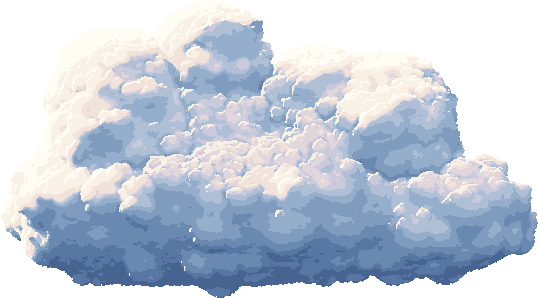
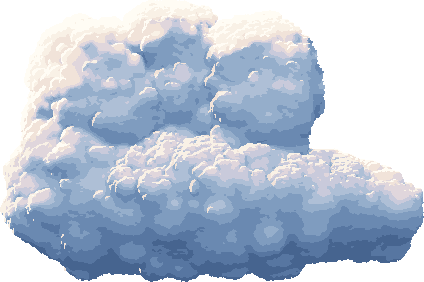
The fall's sky, round 2b (fall loop, worker 1): the deck becomes a ceiling on the back plane, the paper falls through its gap, wisps as tapered strokes
The critique's W1-3/4/5/6/8/9/10 on the cloud library (rev 5's camera):
- The deck moves from the mid plane to the BACK plane: it rises past the paper faster, so at the gust its crowns lie
  under the paper while at the break-out and the postcard its crowns sit above the top bar and only its bellies show.
  Four chunks rebuilt with flat-ish crowns (0.86-1.0 of their height) and a thick layer's light: the sun higher and
  further behind, the lower half in the body's own shadow (`under`), the cells' cast shadows short and soft (no
  vertical combs), less bounce (no polka dots). Bases undulate; torn gaps between the chunks: G1 round the sun (the
  sun in it from the break-out to the postcard, worker 2's shafts through it) and G2, the paper's: from 7.0 to 9.6 s
  the paper drops into the valley between two crowns with sky behind it, never a lit crown (W1-9), and breaks out
  through the same gap at 10.6 s.
- Wisps (W1-5): a new stroke builder (cloudlib.wisps): few strokes streaming west, a dense ragged head lit on top, a
  long tail thinning into combed fibres that fray and break, the tail hooked by the shear; no rim, no ruled
  underside. ci-a/b/c (high cirrus), st-a/b/c (low stratus) rebuilt. Binary alpha (the engine draws partial alpha
  dark: measured, so the strokes stay crisp).
- The vast frame (W1-6/W1-8): the paper's column is open sky (the deck lies low over the world toward the
[…]

diff --git a/src/tesu/art/library/opening/cloud-library.ts b/src/tesu/art/library/opening/cloud-library.ts
@@ -30,14 +30,16 @@ export const CLOUDS: Readonly<Record<string, CloudEntry>> = {
   "cu-far-a": { what: "far heap", w: 884, h: 222, ax: 384.0, ay: 196.0, sets: [{ level: 1.0, base: "/tesu/clouds/cu-far-a/l100/" }, { level: 0.5, base: "/tesu/clouds/cu-far-a/l50/" }, { level: 0.25, base: "/tesu/clouds/cu-far-a/l25/" }] },
   "cu-far-b": { what: "far heap", w: 605, h: 174, ax: 272.0, ay: 164.0, sets: [{ level: 1.0, base: "/tesu/clouds/cu-far-b/l100/" }, { level: 0.5, base: "/tesu/clouds/cu-far-b/l50/" }, { level: 0.25, base: "/tesu/clouds/cu-far-b/l25/" }] },
   "cu-far-c": { what: "far heap", w: 426, h: 127, ax: 185.0, ay: 117.0, sets: [{ level: 1.0, base: "/tesu/clouds/cu-far-c/l100/" }, { level: 0.5, base: "/tesu/clouds/cu-far-c/l50/" }, { level: 0.25, base: "/tesu/clouds/cu-far-c/l25/" }] },
-  "deck-w": { what: "deck chunk", w: 1410, h: 707, ax: 570.0, ay: 561.0, sets: [{ level: 1.0, base: "/tesu/clouds/deck-w/l100/" }, { level: 0.5, base: "/tesu/clouds/deck-w/l50/" }, { level: 0.25, base: "/tesu/clouds/deck-w/l25/" }] },
-  "deck-m": { what: "deck chunk (the gust's hero crown)", w: 1075, h: 596, ax: 484.0, ay: 466.0, sets: [{ level: 1.0, base: "/tesu/clouds/deck-m/l100/" }, { level: 0.5, base: "/tesu/clouds/deck-m/l50/" }, { level: 0.25, base: "/tesu/clouds/deck-m/l25/" }] },
-  "deck-e1": { what: "deck chunk", w: 1330, h: 778, ax: 642.0, ay: 607.0, sets: [{ level: 1.0, base: "/tesu/clouds/deck-e1/l100/" }, { level: 0.5, base: "/tesu/clouds/deck-e1/l50/" }, { level: 0.25, base: "/tesu/clouds/deck-e1/l25/" }] },
-  "deck-e2": { what: "deck chunk", w: 1494, h: 727, ax: 675.0, ay: 554.0, sets: [{ level: 1.0, base: "/tesu/clouds/deck-e2/l100/" }, { level: 0.5, base: "/tesu/clouds/deck-e2/l50/" }, { level: 0.25, base: "/tesu/clouds/deck-e2/l25/" }] },
+  "deck-w": { what: "deck chunk (west, by the sun's gap)", w: 1467, h: 585, ax: 647.0, ay: 454.0, sets: [{ level: 1.0, base: "/tesu/clouds/deck-w/l100/" }, { level: 0.5, base: "/tesu/clouds/deck-w/l50/" }, { level: 0.25, base: "/tesu/clouds/deck-w/l25/" }] },
+  "deck-m": { what: "deck chunk (hanging low between the sun's gap and the paper's)", w: 849, h: 564, ax: 352.0, ay: 454.0, sets: [{ level: 1.0, base: "/tesu/clouds/deck-m/l100/" }, { level: 0.5, base: "/tesu/clouds/deck-m/l50/" }, { level: 0.25, base: "/tesu/clouds/deck-m/l25/" }] },
+  "deck-e1": { what: "deck chunk (the gust's hero crown east of the paper)", w: 1352, h: 571, ax: 595.0, ay: 450.0, sets: [{ level: 1.0, base: "/tesu/clouds/deck-e1/l100/" }, { level: 0.5, base: "/tesu/clouds/deck-e1/l50/" }, { level: 0.25, base: "/tesu/clouds/deck-e1/l25/" }] },
+  "deck-e2": { what: "deck chunk (east)", w: 1536, h: 549, ax: 722.0, ay: 428.0, sets: [{ level: 1.0, base: "/tesu/clouds/deck-e2/l100/" }, { level: 0.5, base: "/tesu/clouds/deck-e2/l50/" }, { level: 0.25, base: "/tesu/clouds/deck-e2/l25/" }] },
   "deck-mid-a": { what: "deck band, middle distance", w: 1900, h: 487, ax: 963.0, ay: 358.0, sets: [{ level: 1.0, base: "/tesu/clouds/deck-mid-a/l100/" }, { level: 0.5, base: "/tesu/clouds/deck-mid-a/l50/" }, { level: 0.25, base: "/tesu/clouds/deck-mid-a/l25/" }] },
   "deck-far-a": { what: "deck band, far", w: 2240, h: 353, ax: 1114.0, ay: 230.0, sets: [{ level: 1.0, base: "/tesu/clouds/deck-far-a/l100/" }, { level: 0.5, base: "/tesu/clouds/deck-far-a/l50/" }, { level: 0.25, base: "/tesu/clouds/deck-far-a/l25/" }] },
-  "st-a": { what: "low stratus", w: 842, h: 48, ax: 397.0, ay: 59.0, sets: [{ level: 1.0, base: "/tesu/clouds/st-a/l100/" }] },
-  "st-b": { what: "low stratus", w: 326, h: 24, ax: 30.0, ay: 44.0, sets: [{ level: 1.0, base: "/tesu/clouds/st-b/l100/" }] },
-  "ci-a": { what: "high cirrus", w: 691, h: 74, ax: 296.0, ay: 74.0, sets: [{ level: 1.0, base: "/tesu/clouds/ci-a/l100/" }] },
-  "ci-b": { what: "high cirrus", w: 484, h: 43, ax: 211.0, ay: 55.0, sets: [{ level: 1.0, base: "/tesu/clouds/ci-b/l100/" }] },
+  "st-a": { what: "low stratus", w: 514, h: 49, ax: 74.0, ay: 49.0, sets: [{ level: 1.0, base: "/tesu/clouds/st-a/l100/" }] },
+  "st-b": { what: "low stratus", w: 460, h: 33, ax: 184.0, ay: 37.0, sets: [{ level: 1.0, base: "/tesu/clouds/st-b/l100/" }] },
+  "st-c": { what: "low stratus, far", w: 837, h: 62, ax: 334.0, ay: 62.0, sets: [{ level: 1.0, base: "/tesu/clouds/st-c/l100/" }] },
+  "ci-a": { what: "high cirrus", w: 572, h: 55, ax: 173.0, ay: 55.0, sets: [{ level: 1.0, base: "/tesu/clouds/ci-a/l100/" }] },
+  "ci-b": { what: "high cirrus", w: 281, h: 51, ax: 14.0, ay: 63.0, sets: [{ level: 1.0, base: "/tesu/clouds/ci-b/l100/" }] },
+  "ci-c": { what: "high cirrus", w: 432, h: 45, ax: 104.0, ay: 69.0, sets: [{ level: 1.0, base: "/tesu/clouds/ci-c/l100/" }] },
 };

diff --git a/src/tesu/world/sections/opening-sky.ts b/src/tesu/world/sections/opening-sky.ts
@@ -47,6 +47,12 @@ export interface FallCloud {
   fy: number;
   /** Which cloud of the library (cloud-library.ts). */
   cloud: keyof typeof CLOUDS & string;
+  /**
+   * Composed low, in the play sky by design (the deck overhead at the break-out; the far heaps and stratus toward the
+   * horizon): hidden outside the fall (game.ts syncFall), so only the close band the fall hands off to (the catch, the
+   * walk) must never see it.
+   */
+  low?: boolean;
 }
 
 /** A library cloud's bounds round its anchor (level-1 px of its plane): [x0, y0, x1, y1]. */
@@ -62,23 +68,25 @@ export function cloudBounds(id: string): [number, number, number, number] {
  */
 export const FALL_CLOUDS: readonly FallCloud[] = [
   // --- the VAST FRAME (2.94 s, zoom 0.17): the sky over the whole world. The sun upper left over open sky and high
-  // cirrus combed west; a great tower rising on the right past the palace, its sun side lit; the deck's heaps lying
-  // across the middle below the paper, with a gap where the world shows through, its crowns low under the paper's
-  // column (F's ASK 1), the world below them in the clear.
-  // --- the drop out of the black and the pull-out (0.64-1.6 s): high wisps rushing by the frame as the sky hits, a
-  // small heap far below that settles into the vast frame's empty middle as its depth
-  { id: "fall-wisp-hi-a", plane: "far", T: 1.0, fx: 0.3, fy: 0.55, cloud: "ci-a" },
-  { id: "fall-wisp-hi-b", plane: "far", T: 1.0, fx: 0.76, fy: 0.74, cloud: "ci-b" },
-  { id: "fall-puff-mid", plane: "mid", T: 1.0, fx: 0.8, fy: 0.84, cloud: "cu-puff-a" },
-  { id: "fall-cirrus-a", plane: "far", T: 2.94, fx: 0.55, fy: 0.25, cloud: "ci-a" },
-  { id: "fall-cirrus-b", plane: "far", T: 2.94, fx: 0.24, fy: 0.34, cloud: "ci-b" },
+  // cirrus combed west; a great tower rising on the right past the palace, its sun side lit; the deck (on the back
+  // plane, below) lying low over the world toward the horizon, so the paper's column is open sky (F's ASK 1) and the
+  // tower's foot is lost behind the deck.
+  // --- the drop out of the black and the pull-out (0.64-1.6 s): high wisps rushing by the frame as the sky hits
+  { id: "fall-wisp-hi-a", plane: "far", T: 1.0, fx: 0.3, fy: 0.5, cloud: "ci-a" },
+  { id: "fall-wisp-hi-b", plane: "far", T: 1.0, fx: 0.78, fy: 0.72, cloud: "ci-c" },
+  { id: "fall-cirrus-b", plane: "far", T: 2.94, fx: 0.92, fy: 0.2, cloud: "ci-b" },
   { id: "fall-tower", plane: "mid", T: 2.94, fx: 0.8, fy: 0.6, cloud: "cu-tower-a" },
-  // --- the deck (the gust 8.2 s -> the break-out 10.6 s -> the postcard 12.6 s): chunks side by side on the mid
-  // plane, composed for the break-out (their bellies overhead, the crowns above the bar; a gap on the sun's side);
-  // at the gust their crowns cross the lower frame under the paper (deck-m's crown its hero)
-  { id: "fall-deck-w", plane: "mid", T: 10.617, fx: -0.278, fy: 0.37, cloud: "deck-w" },
-  { id: "fall-deck-e", plane: "mid", T: 10.617, fx: 0.935, fy: 0.36, cloud: "deck-e1" },
-  { id: "fall-deck-m", plane: "mid", T: 10.617, fx: 0.422, fy: 0.39, cloud: "deck-m" },
+  // --- the deck (round 2b): a CEILING on the BACK plane (it rises past the paper faster than the mid plane, so at
+  // the gust its crowns lie under the paper while at the break-out and the postcard its crowns are above the top bar
+  // and only its underside shows). Composed for the break-out (10.617 s, art 0.72): four chunks overlapping, their
+  // bases undulating (the rolls' feet y ~400-480), torn gaps between them: G1 round the sun (x ~170-340: the sun in it
+  // or at its west edge from the break-out to the postcard) and G2 the paper falls through (x ~950-1040: at the gust
+  // 7.0-9.6 s the paper drops into the valley between two crowns, sky behind it, never a lit crown: W1-9). Later = in
+  // front: the lowest last.
+  { id: "fall-deck-e2", plane: "back", T: 10.617, fx: 2420 / 1920, fy: 318 / 1080, cloud: "deck-e2", low: true },
+  { id: "fall-deck-e", plane: "back", T: 10.617, fx: 1468 / 1920, fy: 343 / 1080, cloud: "deck-e1", low: true },
+  { id: "fall-deck-w", plane: "back", T: 10.617, fx: -420 / 1920, fy: 361 / 1080, cloud: "deck-w", low: true },
+  { id: "fall-deck-m", plane: "back", T: 10.617, fx: 592 / 1920, fy: 400 / 1080, cloud: "deck-m", low: true },
 ];
 
 export function openingSky(b: WorldBuilder): void {

diff --git a/tools/clouds/cloudlib.py b/tools/clouds/cloudlib.py
@@ -211,7 +211,7 @@ def grow(rng, prims, *, spacing, radius, keep, inset=0.45, blend=0.32, vs=4.0, j
 # forms (level-1 px; the anchor (0, 0) is the middle of the base)
 
 
-def heap(rng, w, h, *, turrets=None, lead=-0.22, depth=0.75, belly=0.36, cells=1.0, sprouts=1.0, lean=0.0, cell_px=None, sprout_px=None, crowns=1.0, look_k=0.16, front_cells=0.35, cell_space=0.8, cauli=False, florets=1.0, floret_px=None, tw=None, gaps=(), rolls=0.0, roll_px=None, taper=0.0, cut=True, roll_drop=0.0):
+def heap(rng, w, h, *, turrets=None, lead=-0.22, depth=0.75, belly=0.36, cells=1.0, sprouts=1.0, lean=0.0, cell_px=None, sprout_px=None, crowns=1.0, look_k=0.16, front_cells=0.35, cell_space=0.8, cauli=False, florets=1.0, floret_px=None, tw=None, gaps=(), rolls=0.0, roll_px=None, taper=0.0, cut=True, roll_drop=0.0, carve=()):
     """A cumulus heap (tall and narrow: a tower): an envelope of billows (a flat-ish belly of lying billows, turrets
     of billows rising from it, the tallest a little sunward, crowns of smaller billows on each), cells grown over its
     surface (denser up and sunward), sprouts grown along the lit top (three scales)."""
@@ -320,7 +320,8 @@ def heap(rng, w, h, *, turrets=None, lead=-0.22, depth=0.75, belly=0.36, cells=1
         return np.clip(edge * up * 1.6, 0, 1) * florets
 
     Fl = grow(rng, EC + D, spacing=fl_px * 1.0, radius=fl_px, keep=keep_florets, inset=0.45, blend=0.2, vs=max(1.5, fl_px / 2.5)) if florets > 0 else []
-    return {"prims": EC + D + Fl, "base": 0.0, "w": w, "h": h, "hmax": hmax, "cut": cut}
+    # (carve: torn gaps cut right through the finished form, x share and width share, their walls wandering)
+    return {"prims": EC + D + Fl, "base": 0.0, "w": w, "h": h, "hmax": hmax, "cut": cut, "carve": [(gx * w, gw * w) for gx, gw in carve]}
 
 
 # ---------------------------------------------------------------------------------------------------------------
@@ -574,6 +575,77 @@ def streaks(rng, w, h, *, pieces=3, tilt=-0.035, seed=1, ramp=None, steps=(1, 2,
     return rgba
 
 
+def wisps(rng, w, h, *, pieces=2, seed=1, ramp=None, tilt=-0.03, kind="cirrus", alphas=(0.3, 0.55, 0.82, 1.0), thick=(0.5, 1.0), hook=0.35, breaks=0.42):
+    """Wisps (round 2, the critique's W1-5: "fewer, tapered, broken, west-sheared strokes of varied thickness, lit on top
+    and fading at the ends; no rim"). 2D, painted. Each stroke streams WEST on the east wind: a dense head at its east
+    end (lit on top), a long body thinning west into combed fibres that fray and break, its tail hooked by the shear;
+    translucent in flat steps (alpha `alphas`, thin to dense: no blur, no dither), so a thin wisp is the sky's own blue
+    lifted and only the dense head reads white. kind "cirrus": fine fibres, high; "stratus": a thicker low band with
+    small lumpy heads along its lit top and a cool, lost underside. Returns RGBA (partial alpha in steps)."""
+    nz = Noise(seed * 7 + 3)
+    W, H = int(w), int(h)
+    yy, xx = np.mgrid[0:H, 0:W].astype(np.float32)
+    dens = np.zeros((H, W), np.float32)
+    up = np.zeros((H, W), np.float32)  # where in its stroke's thickness a px is (-1 top .. 1 bottom), of the densest stroke
+    fib = kind == "cirrus"
+    for i in range(pieces):
+        L = W * (0.45 + 0.4 * rng.random()) if i == 0 else W * (0.22 + 0.35 * rng.random())
+        x1 = W - 2 - rng.random() * W * (0.05 if i == 0 else 0.45)
+        x0 = max(1.0, x1 - L)
+        L = x1 - x0
+        y1 = H * (0.3 + 0.4 * rng.random())
+        t0 = H * 0.5 * (thick[0] + (thick[1] - thick[0]) * rng.random()) * (1.0 if i == 0 else 0.7)
+        u = np.clip((xx - x0) / max(L, 1), 0, 1)  # 0 the west tail .. 1 the east head
+        inside = (xx >= x0 - 2) & (xx <= x1 + 2)
+        # the centre line: the tilt, a gentle meander, the tail hooked by the shear (up or down)
+        hk = (hook * (1 if rng.random() < 0.6 else -1)) * H * 0.5
+        yc = y1 + tilt * (xx - x1) + hk * (1 - u) ** 2.2 + (nz.fbm(xx / 160.0 + i * 3.3, np.full_like(xx, 1.7 * i), oct=2) - 0.5) * H * 0.18
+        # the thickness: swells fast behind the head, tapers long toward the tail (and quickly at the head's own end)
+        # (the head's end ragged: tufts of its own, never a clean rounded tip)
+        rag = (nz.fbm(yy / 2.6 + i * 13.0, xx / 30.0 + i, oct=2) - 0.5) * 2.4
+        prof = np.clip(u / 0.7, 0, 1) ** 0.9 * np.clip((1 - u) / 0.12 + rag, 0, 1) ** 0.5
+        prof = prof * (0.75 + 0.5 * nz.fbm(xx / 70.0 + i * 5.1, np.full_like(xx, 3.0 + i), oct=2))
+        t = np.maximum(t0 * prof, 0.4)
+        c = (yy - yc) / t  # -1 top .. 1 bottom
+        lump = nz.fbm(xx / (9.0 if fib else 14.0) + i * 4.4, np.full_like(xx, 8.0 + i), oct=2) - 0.5
+        ce = np.where(c < 0, c / (1 + (0.6 if fib else 0.9) * lump), c * 1.15)
+        core = np.clip(1 - np.abs(ce) ** 1.4, 0, 1)
+        if fib:
+            # fibres combed along the stroke (long in x, a px or two across), only inside its envelope, stronger
+            # toward the tail where the core thins away
+            f = nz.fbm(xx / 140.0 + i * 2.1, (yy - yc) / 1.4 + i * 7.7, oct=2)
+            env = np.clip(1.0 - np.abs(c) / 1.9, 0, 1)
+            d = core * (0.35 + 0.65 * u ** 0.7) + (f - 0.5) * (1.6 - 0.8 * u) * env - (1 - env) * 0.6
+        else:
+            f = nz.fbm(xx / 60.0 + i * 2.1, (yy - yc) / 2.2 + i * 7.7, oct=3)
+            d = core * (0.6 + 0.4 * u) + (f - 0.5) * 0.7
+        # torn breaks along it (the stroke breaks into lengths, more toward the tail)
+        br = nz.fbm(xx / 55.0 + i * 9.9, np.full_like(xx, 5.5 + 2 * i), oct=2)
+        d = d - np.clip((breaks + 0.25 * (1 - u)) - br, 0, 1) * 2.2
+        d = np.where(inside, d, 0)
+        better = d > dens
+        dens = np.where(better, d, dens)
+        up = np.where(better, np.clip(c, -1, 1), up)
+    # density steps (thin -> dense), binary alpha (the engine draws sprites crisp: no partial alpha). The thinnest
+    # fibres are left out; a thin wisp is a pale cool blue (over the deep sky a lighter blue, over the pale sky lost),
+    # the dense head white and warm on top
+    th = (0.3, 0.5, 0.72)
+    lv = np.full((H, W), -1, np.int16)
+    for k, tk in enumerate(th):
+        lv[dens > tk] = k
+    lv = majority(lv)
+    n2 = nz.fbm(xx / 9.0, yy / 4.0 + 40, oct=2) - 0.5
+    n3 = nz.fbm(xx / 40.0, yy / 6.0 + 70, oct=2) - 0.5
+    ci = np.where(lv == 0, 5, np.where(lv == 1, np.where(up < 0.2 + n2 * 0.5, 3, 4), np.where(up < -0.1 + n3 * 1.2, 1, 2))).astype(np.int16)
+    ci = np.where((lv == 2) & (up < -0.45 + n3 * 0.6), 0 if not fib else 1, ci)
+    cols = np.array(ramp, np.uint8)
+    rgba = np.zeros((H, W, 4), np.uint8)
+    m = lv >= 0
+    rgba[m, :3] = cols[ci[m]]
+    rgba[m, 3] = 255
+    return rgba
+
+
 def hash01(G, salt):
     """A well-mixed hash of integer lattice points -> [0, 1) (splitmix64)."""
     with np.errstate(over="ignore"):
@@ -771,6 +843,13 @@ def render(form, *, level=1.0, seed=1, look=None, pad=8):
         np.maximum(occ, np.clip(ex / sss, 0, 1) * fall, out=occ)
         tt += 1.0 if tt < 10 * L else 2.0
     direct = np.clip((ndl + wrap) / (1 + wrap), 0, 1) * Tsun * (1 - look.get("ss", 0.75) * occ)
+    if look.get("under"):
+        # (a thick layer) its lower part lies in the shadow of the body above it: the direct light fades below the
+        # crowns' line (u0 .. u1 shares of the form's height from its base, down to `floor`)
+        u0, u1, fl = look["under"]
+        hh = form.get("h", 400) * L
+        u = np.clip((-py / hh - u0) / max(u1 - u0, 1e-3), 0, 1)
+        direct = direct * (fl + (1 - fl) * u * u * (3 - 2 * u))
     # occlusion from the field (crevices)
     ao = np.zeros(len(Pt), np.float32)
     for dd, wgt in ((3, 0.45), (7, 0.3), (14, 0.25)):
@@ -929,6 +1008,6 @@ def sky_bg(W, H, top=(20, 96, 160), bot=(150, 200, 222)):
 def over(bg, rgba, x, y):
     h, w = rgba.shape[:2]
     sub = bg[y:y + h, x:x + w]
-    a = rgba[:sub.shape[0], :sub.shape[1], 3:4] > 127
-    sub[:] = np.where(a, rgba[:sub.shape[0], :sub.shape[1], :3], sub)
+    a = rgba[:sub.shape[0], :sub.shape[1], 3:4].astype(np.float32) / 255.0
+    sub[:] = (rgba[:sub.shape[0], :sub.shape[1], :3] * a + sub * (1 - a) + 0.5).astype(np.uint8)
     return bg

diff --git a/tools/clouds/build.py b/tools/clouds/build.py
@@ -27,10 +27,14 @@ TS = os.path.join(ROOT, "src", "tesu", "art", "library", "opening", "cloud-libra
 LEVELS = (1.0, 0.5, 0.25)
 
 LOOK = {"ao": 0.4, "kr": 0.45, "form": 0.9, "form_px": 10, "lumps": 0.6, "rim_gap": 3, "rim_px": 2.5, "base_wave": 30, "base_tear": 10}
-DECK = dict(LOOK, vs=2.5, kb=0.06, form_px=12, sun=[-0.62, -0.62, -0.45], kbelly=0.0, rags=False)
+# (round 2b) the deck's sun is higher and further behind it: its crowns lit from above (the gust's hero), the body
+# under them in their shadow (a thick layer: the light cannot get through), the cells' cast shadows short and soft (no
+# vertical combs); under its crowns the layer's lower half lies in its own shadow (`under`: no lit tier of bellies
+# reads as a crown from below at the break-out)
+DECK = dict(LOOK, vs=2.5, kb=0.05, form_px=12, sun=[-0.5, -0.75, -0.45], kbelly=0.0, rags=False, sigma=0.05, reach=500, ss=0.4, ss_len=24, under=(0.42, 0.62, 0.3))
 # the shares of the steps (lightest first): a sunlit heap; a deck chunk (more of it is belly); a far heap
 LIT = cl.SHARE
-DECKS = [0.08, 0.12, 0.06, 0.06, 0.07, 0.12, 0.14, 0.13, 0.1, 0.07, 0.05]
+DECKS = [0.05, 0.07, 0.05, 0.06, 0.08, 0.12, 0.15, 0.15, 0.13, 0.08, 0.06]
 
 # id: (kind, seed, form args, look, share, far, what it is)
 LIB = {
@@ -53,17 +57,24 @@ LIB = {
     # the deck: chunks with crowns, a thick body and rolls hanging along an undulating base
     # (a chunk is about 430 px of its plane tall: at the gust its crowns cross the lower frame under the paper, at
     # the break-out its crowns are hidden above the top bar and its belly is overhead)
-    "deck-w": ("heap", 5, dict(w=900, h=480, belly=0.5, tw=[(-0.34, 0.8, 0.13), (-0.12, 1.0, 0.15), (0.12, 0.86, 0.13), (0.34, 0.78, 0.12)], rolls=1.0, roll_px=36, cut=False, roll_drop=0.6), DECK, DECKS, 0.0, "deck chunk"),
-    "deck-m": ("heap", 9, dict(w=760, h=400, belly=0.5, tw=[(-0.32, 0.86, 0.15), (-0.08, 1.0, 0.17), (0.2, 0.76, 0.13), (0.38, 0.74, 0.11)], rolls=1.0, roll_px=34, cut=False, roll_drop=0.6), DECK, DECKS, 0.0, "deck chunk (the gust's hero crown)"),
-    "deck-e1": ("heap", 13, dict(w=1000, h=520, belly=0.5, tw=[(-0.36, 0.8, 0.11), (-0.16, 0.9, 0.13), (0.05, 1.0, 0.15), (0.27, 0.84, 0.13), (0.4, 0.76, 0.1)], rolls=1.0, roll_px=36, cut=False, roll_drop=0.6), DECK, DECKS, 0.0, "deck chunk"),
-    "deck-e2": ("heap", 29, dict(w=1150, h=500, belly=0.5, tw=[(-0.38, 0.8, 0.11), (-0.18, 0.95, 0.14), (0.02, 0.8, 0.12), (0.2, 0.9, 0.13), (0.38, 0.76, 0.11)], rolls=1.0, roll_px=36, cut=False, roll_drop=0.6), DECK, DECKS, 0.0, "deck chunk"),
+    # (round 2b: the deck is a CEILING on the back plane: tall flat-ish crowns (0.84-1.0 of h) so that at the
+    # break-out and the postcard every crown sits above the top bar and only the bellies show, while at the gust the
+    # crowns lie under the paper; four chunks with torn gaps between them, one round the sun, one the paper falls
+    # through)
+    "deck-w": ("heap", 5, dict(w=1100, h=380, belly=0.5, tw=[(-0.38, 0.9, 0.09), (-0.2, 1.0, 0.1), (-0.02, 0.92, 0.1), (0.17, 0.97, 0.1), (0.36, 0.88, 0.09)], rolls=1.0, roll_px=34, cut=False, roll_drop=0.45), DECK, DECKS, 0.0, "deck chunk (west, by the sun's gap)"),
+    "deck-m": ("heap", 9, dict(w=520, h=400, belly=0.45, tw=[(-0.3, 0.92, 0.15), (0.0, 1.0, 0.17), (0.3, 0.9, 0.15)], rolls=1.0, roll_px=34, cut=False, roll_drop=0.6), DECK, DECKS, 0.0, "deck chunk (hanging low between the sun's gap and the paper's)"),
+    "deck-e1": ("heap", 13, dict(w=1000, h=380, belly=0.5, tw=[(-0.36, 0.9, 0.1), (-0.16, 0.97, 0.11), (0.04, 1.0, 0.11), (0.23, 0.92, 0.1), (0.4, 0.88, 0.08)], rolls=1.0, roll_px=36, cut=False, roll_drop=0.45), DECK, DECKS, 0.0, "deck chunk (the gust's hero crown east of the paper)"),
+    "deck-e2": ("heap", 29, dict(w=1300, h=360, belly=0.5, tw=[(-0.4, 0.88, 0.08), (-0.24, 1.0, 0.1), (-0.07, 0.9, 0.09), (0.1, 0.96, 0.1), (0.27, 0.9, 0.09), (0.41, 0.86, 0.08)], rolls=1.0, roll_px=36, cut=False, roll_drop=0.4), DECK, DECKS, 0.0, "deck chunk (east)"),
     "deck-mid-a": ("heap", 17, dict(w=1800, h=300, belly=0.62, tw=[(-0.4, 0.5, 0.06), (-0.27, 0.8, 0.08), (-0.12, 0.55, 0.06), (0.03, 0.66, 0.07), (0.2, 1.0, 0.09), (0.36, 0.6, 0.07)], rolls=1.0, roll_px=30, cut=False, roll_drop=0.5, taper=0.1), DECK, DECKS, 0.25, "deck band, middle distance"),
     "deck-far-a": ("heap", 19, dict(w=2200, h=170, belly=0.7, tw=[(-0.42, 0.6, 0.05), (-0.28, 0.9, 0.06), (-0.1, 0.55, 0.05), (0.06, 0.75, 0.05), (0.24, 1.0, 0.07), (0.4, 0.65, 0.05)], taper=0.12, rolls=0.8, roll_px=18, cut=False, roll_drop=0.4), DECK, DECKS, 0.55, "deck band, far"),
     # streaks: low stratus and high cirrus (painted strokes)
-    "st-a": ("streaks", 3, dict(w=900, h=60, pieces=3), None, None, 0.0, "low stratus"),
-    "st-b": ("streaks", 5, dict(w=600, h=44, pieces=2), None, None, 0.0, "low stratus"),
-    "ci-a": ("streaks", 7, dict(w=800, h=80, pieces=5, fiber=1.0, thick=(0.12, 0.35), steps=(0, 1, 2, 3, 5), tilt=-0.08), None, None, 0.45, "high cirrus"),
-    "ci-b": ("streaks", 11, dict(w=560, h=64, pieces=4, fiber=1.0, thick=(0.12, 0.3), steps=(0, 1, 2, 3, 5), tilt=-0.07), None, None, 0.5, "high cirrus"),
+    # (round 2, W1-5: tapered, broken, west-sheared translucent strokes: fibrous cirrus high, lumpy stratus low)
+    "st-a": ("wisps", 3, dict(w=900, h=56, pieces=2, kind="stratus", thick=(0.6, 1.0), hook=0.15, breaks=0.4, alphas=(0.35, 0.6, 0.88, 1.0)), None, None, 0.0, "low stratus"),
+    "st-b": ("wisps", 5, dict(w=600, h=44, pieces=2, kind="stratus", thick=(0.6, 1.0), hook=0.15, breaks=0.4, alphas=(0.35, 0.6, 0.88, 1.0)), None, None, 0.0, "low stratus"),
+    "st-c": ("wisps", 13, dict(w=1100, h=64, pieces=3, kind="stratus", thick=(0.5, 1.0), hook=0.12, breaks=0.45, alphas=(0.35, 0.6, 0.88, 1.0)), None, None, 0.2, "low stratus, far"),
+    "ci-a": ("wisps", 7, dict(w=800, h=90, pieces=2, kind="cirrus"), None, None, 0.45, "high cirrus"),
+    "ci-b": ("wisps", 11, dict(w=560, h=70, pieces=2, kind="cirrus"), None, None, 0.5, "high cirrus"),
+    "ci-c": ("wisps", 23, dict(w=700, h=80, pieces=3, kind="cirrus"), None, None, 0.45, "high cirrus"),
 }
 
 
@@ -83,10 +94,10 @@ def build_one(cid):
     t0 = time.time()
     ramp = ramp_of(far)
     out = {"id": cid, "kind": kind, "what": what, "sets": []}
-    if kind == "streaks":
+    if kind in ("streaks", "wisps"):
         a = dict(args)
         w, h = a.pop("w"), a.pop("h")
-        rgba = cl.streaks(np.random.default_rng(seed), w, h, seed=seed, ramp=ramp, **a)
+        rgba = getattr(cl, kind)(np.random.default_rng(seed), w, h, seed=seed, ramp=ramp, **a)
         rgba, x0, y0 = crop(rgba)
         # anchor: the middle of its box's foot (as the heaps)
         levels = [(1.0, rgba, w / 2 - x0, h - y0)]
